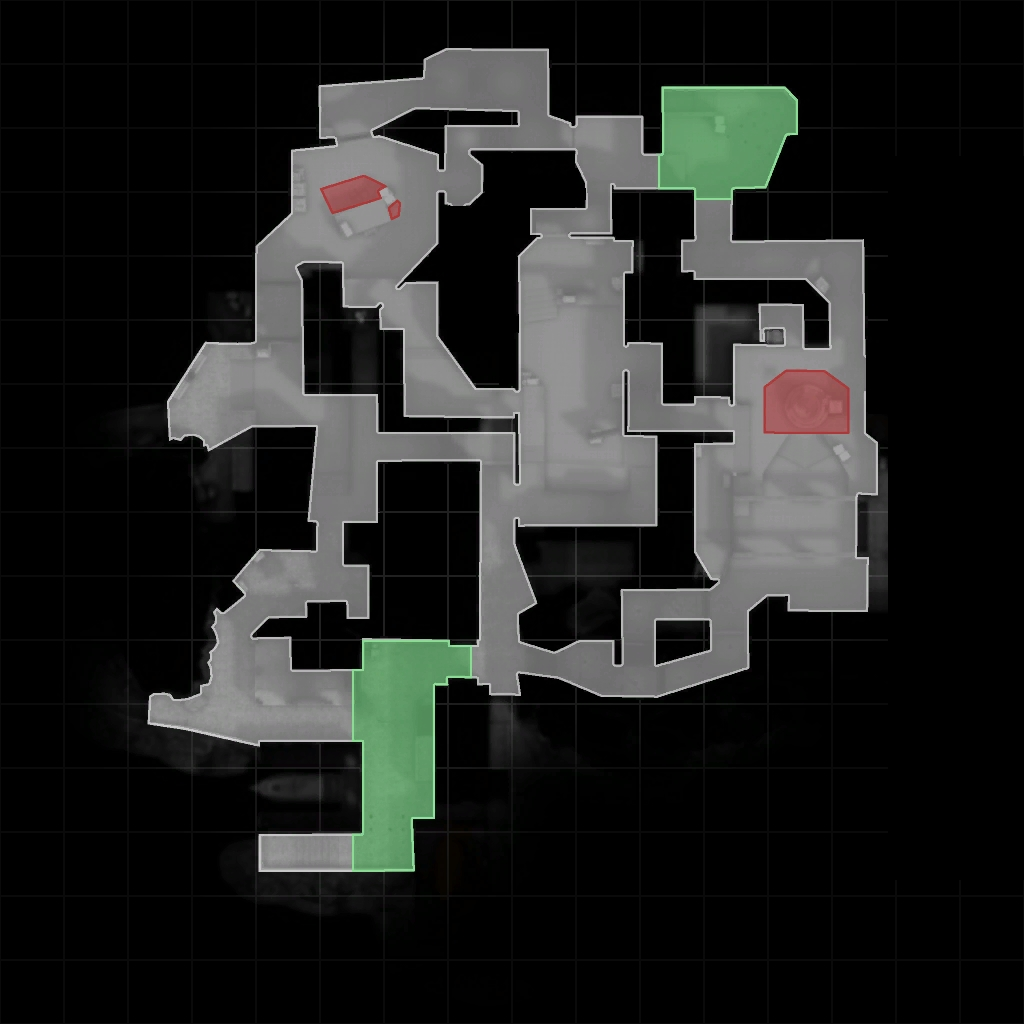
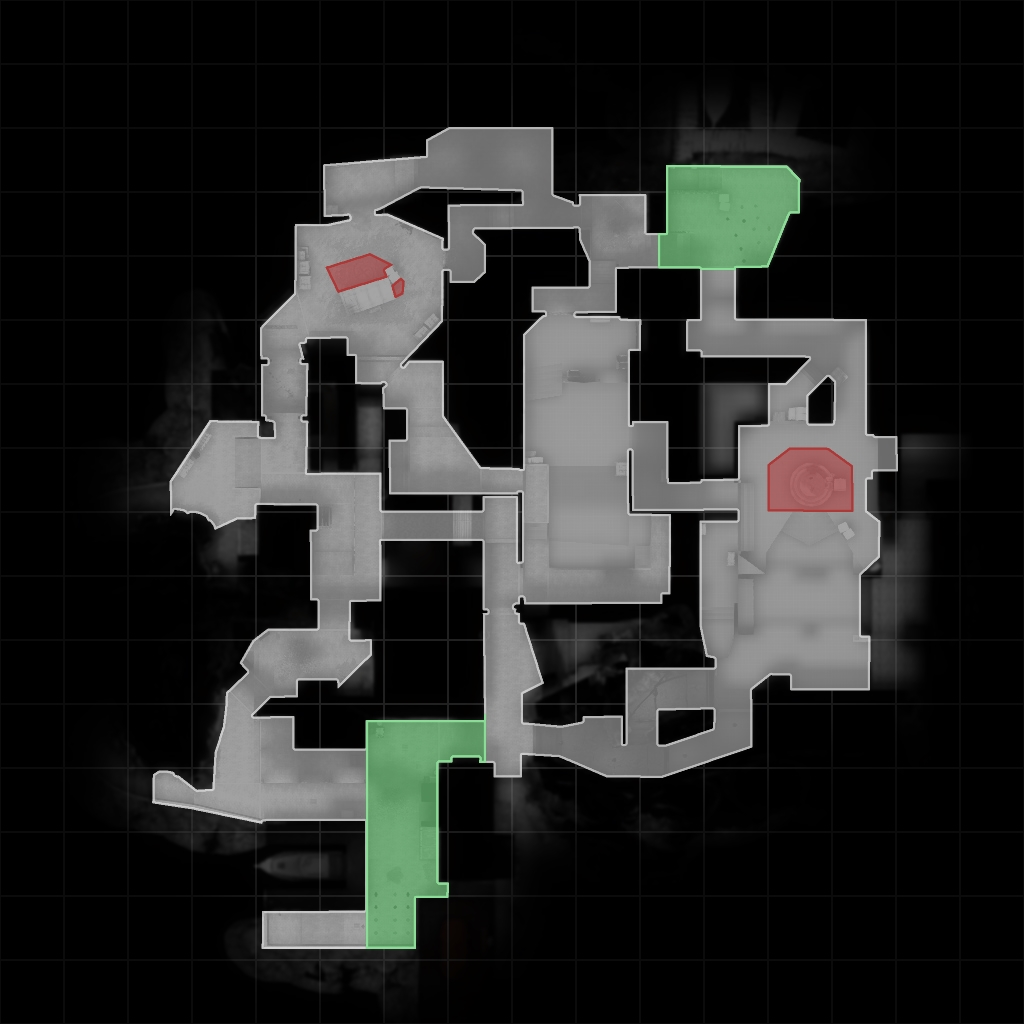
More Images/Replaced some

diff --git a/index.html b/index.html
@@ -66,6 +66,19 @@
       </div>
     </div>
 	
+	<div class="row" style="margin-top: 2em;">
+      <div class="large-4 columns">
+        <h3>A Long</h3>
+        <p>A Long Old vs A Long</p>
+      </div>
+      <div class="large-8 columns">
+        <div class="twentytwenty-container">
+          <img src="img/test9.jpg" />
+          <img src="img/test10.jpg" />
+        </div>
+      </div>
+    </div>
+	
     <script
   src="https://code.jquery.com/jquery-3.2.1.js"
   integrity="sha256-DZAnKJ/6XZ9si04Hgrsxu/8s717jcIzLy3oi35EouyE="
